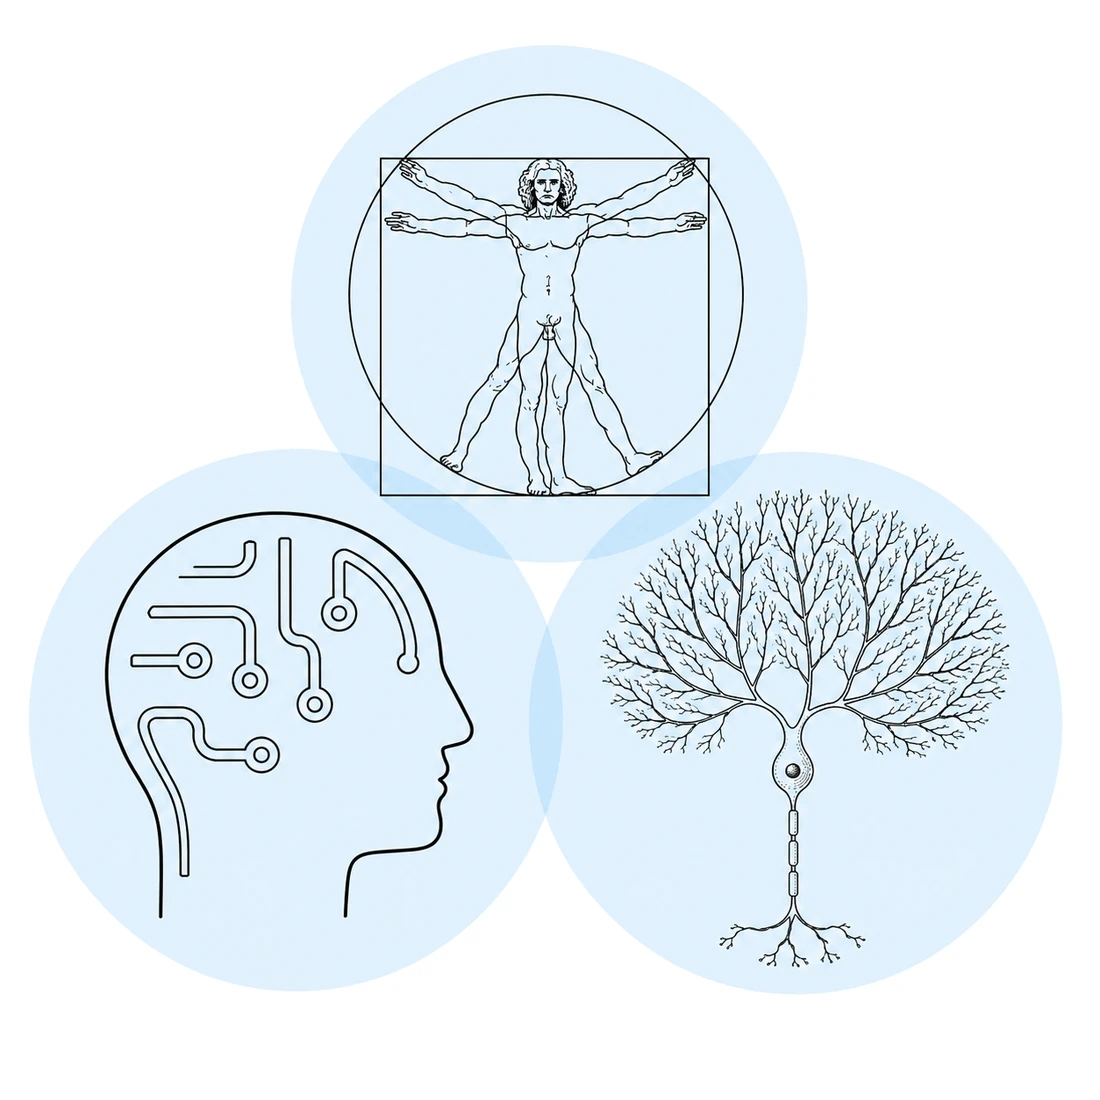
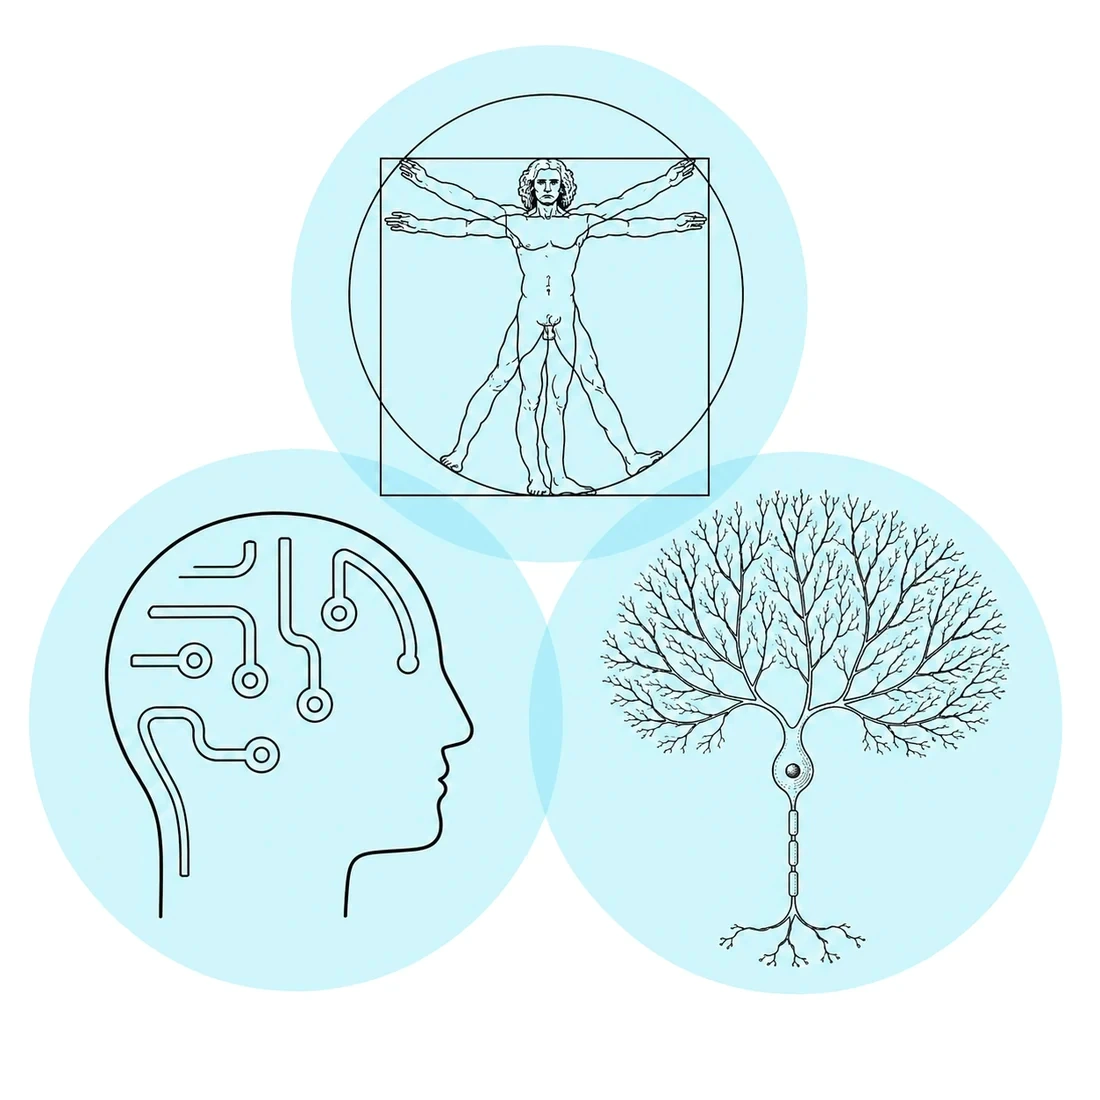
Retint every research page illustration to one brighter, greener blue
The Discobolus circle was #d8effe and the Approach circles #e1f1fe, so
neither matched the Aim artwork at #d8ecfa. All five now carry #d2f5fb —
hue 205 to 190, saturation 77 to 88 percent.

The shift is applied in proportion to tint strength rather than as a flat
fill, so antialiased circle edges stay smooth and the Venn's overlaps keep
their darkening instead of flattening into the base tone. The --accent
token moves with the artwork so link-hover highlights do not sit in the
old blue family beside it.

Changed region(s): [[0.4636, 0.5873, 0.5255, 0.7418], [0.5564, 0.4018, 0.68, 0.4945], [0.34, 0.4327, 0.4636, 0.5255]]

diff --git a/assets/css/site.css b/assets/css/site.css
@@ -9,7 +9,7 @@
   --ink-muted:    #666666;
   --nav-ink:      #222222;   /* nav links are the one thing it sets to #222 */
   --rule:         rgba(0, 0, 0, .12);  /* neutral, not blue-tinted: the reference's only rule is black */
-  --accent:       #d7edfb;   /* pale sky blue — the single accent */
+  --accent:       #d2f5fb;   /* pale cyan-blue — matches the illustration discs */
   --accent-deep:  #8cc7e8;
   --bg:           #ffffff;
   --footer-bg:    #000000;
